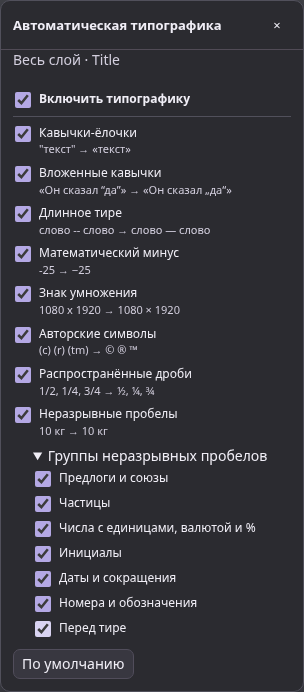
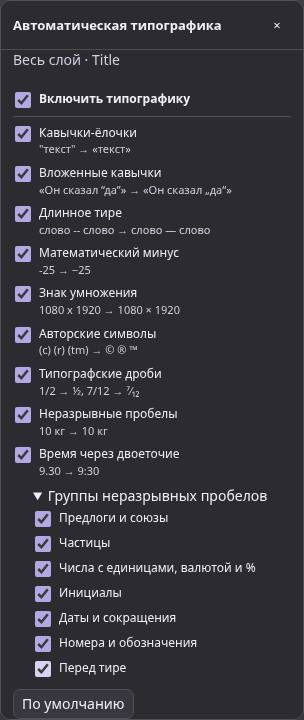
Extend typographic fractions and add opt-in colon times

diff --git a/tests/text-typography.spec.js b/tests/text-typography.spec.js
@@ -11,9 +11,9 @@ const layer=(page,id='title')=>page.locator(`#layers [data-layer="${id}"]`);
 const selectLayer=(page,id)=>layer(page,id).locator('.layer-name').click();
 const press=async(page,...keys)=>{for(const key of keys)await page.keyboard.press(key);};
 const pause=page=>page.evaluate(()=>new Promise(resolve=>requestAnimationFrame(()=>requestAnimationFrame(resolve))));
-const allRules=Object.fromEntries(['quotes','nestedQuotes','emDash','minus','multiply','marks','fractions','nbsp'].map(key=>[key,true]));
-const source='"Голос “да”" -- -25 °C; 3 * 4; (tm); 1/2; в доме.\nStraße';
-const projected='«ГОЛОС „ДА“»\u00a0— −25\u00a0°C; 3 × 4; ™; ½; В\u00a0ДОМЕ.\nSTRASSE';
+const allRules=Object.fromEntries(['quotes','nestedQuotes','emDash','minus','multiply','marks','fractions','nbsp','timeColon'].map(key=>[key,true]));
+const source='"Голос “да”" -- -25 °C; 3 * 4; (tm); 1/2, 7/12; в доме.\nStraße 09.05';
+const projected='«ГОЛОС „ДА“»\u00a0— −25\u00a0°C; 3 × 4; ™; ½, ⁷⁄₁₂; В\u00a0ДОМЕ.\nSTRASSE 09:05';
 
 async function finishEdit(page){
  await host(page).focus();
@@ -49,9 +49,13 @@ test('panel stays in place, targets one layer, preserves canonical runs and pers
  await expect(trigger(page)).toHaveAttribute('aria-expanded','true');
  expect(await model(page)).toEqual(before);
  await master(page).check();
+ await expect(rule(page,'fractions')).toHaveAccessibleName('Типографские дроби');
+ await expect(rule(page,'timeColon')).toHaveAccessibleName('Время через двоеточие');
+ await expect(rule(page,'timeColon')).not.toBeChecked();
  for(const key of ['multiply','marks','fractions'])await rule(page,key).check();
+ await rule(page,'timeColon').check();
  await expect(trigger(page)).toHaveClass(/active/);
- await expect(trigger(page)).toHaveAttribute('title',/8$/);
+ await expect(trigger(page)).toHaveAttribute('title',/9$/);
  await panel(page).locator('summary').click();
  await expect(panel(page).locator('[data-typography-nbsp]:visible')).toHaveCount(7);
  const buttonImage=info.outputPath('typography-button.png'),panelImage=info.outputPath('typography-panel.png');
@@ -68,11 +72,19 @@ test('panel stays in place, targets one layer, preserves canonical runs and pers
  const backward=await selection(page);
  await rule(page,'fractions').uncheck();
  await expect(host(page)).toContainText('1/2');
+ await expect(host(page)).toContainText('09:05');
  await host(page).focus();
  const after=await selection(page);
  expect(after.anchor-after.focus).toBe(backward.anchor-backward.focus);
  await press(page,'Control+z');expect(await host(page).textContent()).toBe(projected);
  await press(page,'Control+Shift+z');await expect(host(page)).toContainText('1/2');
+ await press(page,'Control+z');
+ await rule(page,'timeColon').uncheck();
+ await expect(host(page)).toContainText('09.05');
+ await expect(host(page)).toContainText('⁷⁄₁₂');
+ await host(page).focus();
+ await press(page,'Control+z');expect(await host(page).textContent()).toBe(projected);
+ await press(page,'Control+Shift+z');await expect(host(page)).toContainText('09.05');
  await press(page,'Control+z');
  await master(page).uncheck();
  expect(await host(page).textContent()).toBe(source.toUpperCase());
@@ -90,6 +102,8 @@ test('panel stays in place, targets one layer, preserves canonical runs and pers
  await page.locator('#inspector [data-action=duplicate]').click();
  const duplicate=(await exportedDocument(page)).elements.find(e=>e.id!=='title');
  expect(duplicate.typography).toEqual(saved.typography);
+ await rule(page,'timeColon').uncheck();
+ expect((await exportedDocument(page)).elements.find(e=>e.id===duplicate.id).typography.rules.timeColon).toBe(false);
  await expect(panel(page).locator('#typographyTarget')).not.toHaveText('Весь слой · '+before.name);
  await master(page).uncheck();
  expect((await model(page)).typography).toEqual(saved.typography);
@@ -103,6 +117,7 @@ test('panel stays in place, targets one layer, preserves canonical runs and pers
  expect((await model(page)).typography).toEqual(saved.typography);
  await panel(page).locator('[data-typography-reset]').click();
  await expect(rule(page,'fractions')).not.toBeChecked();
+ await expect(rule(page,'timeColon')).not.toBeChecked();
  await press(page,'Control+z');
  await expect(rule(page,'fractions')).toBeChecked();
  await selectLayer(page);
@@ -123,6 +138,8 @@ test('panel stays in place, targets one layer, preserves canonical runs and pers
  await page.reload();await openLibraryDocument(page,doc.id);await selectLayer(page);
  await expect(trigger(page)).toHaveClass(/active/);
  await expect(panel(page)).toBeHidden();
+ await trigger(page).click();
+ await expect(rule(page,'timeColon')).toBeChecked();
 });
 
 test('contractions and expansions are atomic for arrows, backward drag, delete and clipboard, with safe IME recovery',async({page})=>{
@@ -168,17 +185,72 @@ test('contractions and expansions are atomic for arrows, backward drag, delete a
  expect((await model(page)).text).toBe('ß "word"\n"test"');
 });
 
+test('equal-length compound fraction is atomic for native click, backward drag, navigation and clipboard',async({page})=>{
+ const text='До 125/256 после';
+ await seed(page,{text,fontSize:28,typography:{enabled:true,rules:{fractions:true}}});
+ await edit(page);
+ expect(await host(page).textContent()).toBe('До ¹²⁵⁄₂₅₆ после');
+ const first=await glyphBox(page,3),last=await glyphBox(page,9),space=await glyphBox(page,10);
+ const y=first.y+first.height/2;
+ await page.mouse.click(first.x+first.width*.8,y);
+ await expect.poll(()=>selection(page)).toEqual({anchor:3,focus:3});
+ await press(page,'ArrowRight');
+ expect(await selection(page)).toEqual({anchor:10,focus:10});
+ await page.mouse.click(last.x+last.width*.2,y);
+ await expect.poll(()=>selection(page)).toEqual({anchor:10,focus:10});
+ await press(page,'ArrowLeft','Delete');
+ expect((await model(page)).text).toBe('До  после');
+ await press(page,'Control+z');
+ expect((await model(page)).text).toBe(text);
+ await press(page,'Home');
+ expect(await selection(page)).toEqual({anchor:0,focus:0});
+ await press(page,'End');
+ expect(await selection(page)).toEqual({anchor:text.length,focus:text.length});
+ await page.mouse.move(space.x+space.width*.1,y);
+ await page.mouse.down();
+ await page.mouse.move(first.x+first.width*.7,y,{steps:10});
+ await page.mouse.up();
+ await expect.poll(()=>selection(page)).toEqual({anchor:10,focus:3});
+ expect(await page.evaluate(()=>getSelection().toString())).toBe('¹²⁵⁄₂₅₆');
+ await press(page,'Control+c','End','Enter','Control+v');
+ expect((await model(page)).text).toBe(text+'\n125/256');
+ await press(page,'End','Backspace');
+ expect((await model(page)).text).toBe(text+'\n');
+ await press(page,'Control+z');
+ expect((await model(page)).text).toBe(text+'\n125/256');
+ await press(page,'End','Shift+ArrowLeft','Control+x');
+ expect((await model(page)).text).toBe(text+'\n');
+ await press(page,'Control+v');
+ expect((await model(page)).text).toBe(text+'\n125/256');
+});
+
 test('glued text, custom list decoration and PNG agree at fixed size and auto-fit',async({page})=>{
- const text='Первая строка 10 кг в доме и 1/2 возле окна\nВторая -- строка.';
+ const text='Первая строка 10 кг в доме и 1/2; 125/256 возле окна\nВторая -- строка. 09.00–18.00; 7/12';
+ const split=text.lastIndexOf('7/12')+2;
  await seed(page,{text,w:163,h:150,fontSize:23,textAlign:'justify',
   typography:{enabled:true,rules:allRules},
-  textRuns:[{start:0,end:6,style:{underline:true,strokeWidth:1,baselineShift:'super'}}],
+  textRuns:[{start:0,end:6,style:{underline:true,strokeWidth:1,baselineShift:'super'}},
+   {start:split,end:split+2,style:{textColor:'#a32832'}}],
   paragraphRuns:[{start:0,style:{listKind:'bullet',listMarker:'◆',listIndent:6}}]});
  await edit(page);
  const rows=()=>host(page).locator('[data-wysiwyg-row]').allTextContents();
- expect((await rows()).some(row=>row.includes('10\u00a0кг'))).toBe(true);
- expect((await rows()).some(row=>row.includes('в\u00a0доме'))).toBe(true);
- expect((await rows()).some(row=>row.includes('½'))).toBe(true);
+ const fixedRows=await rows(),fraction='¹²⁵⁄₂₅₆';
+ expect(fixedRows.some(row=>row.includes('10\u00a0кг'))).toBe(true);
+ expect(fixedRows.some(row=>row.includes('в\u00a0доме'))).toBe(true);
+ expect(fixedRows.some(row=>row.includes('½'))).toBe(true);
+ const fractionRow=fixedRows.findIndex(row=>row.includes(fraction));
+ expect(fractionRow).toBeGreaterThan(0);
+ expect(await host(page).textContent()).toContain('09:00–18:00; 7/12');
+ const rowStart=fixedRows.slice(0,fractionRow).join('').length;
+ const fractionStart=rowStart+fixedRows[fractionRow].indexOf(fraction);
+ const box=await glyphBox(page,fractionStart);
+ await page.mouse.click(box.x+box.width*.75,box.y+box.height/2);
+ await expect.poll(()=>selection(page)).toEqual({anchor:fractionStart,focus:fractionStart});
+ const rowEnd=rowStart+fixedRows[fractionRow].replace(/\n$/u,'').length;
+ await press(page,'End');
+ expect(await selection(page)).toEqual({anchor:rowEnd,focus:rowEnd});
+ await press(page,'Home');
+ expect(await selection(page)).toEqual({anchor:0,focus:0});
  await finishEdit(page);
  const fixed=await model(page);
  const originalPNG=(await exportPNG(page)).image.data;
@@ -193,6 +265,7 @@ test('glued text, custom list decoration and PNG agree at fixed size and auto-fi
  expect((await host(page).locator('[data-wysiwyg-separator]').allTextContents()).every(value=>/^ +$/u.test(value))).toBe(true);
  const autoRows=await rows();
  expect(autoRows.some(row=>row.includes('10\u00a0кг'))).toBe(true);
+ expect(autoRows.some(row=>row.includes('¹²⁵⁄₂₅₆'))).toBe(true);
  await press(page,'Control+Home','ArrowDown','End','ArrowLeft','Home');
  await expect(host(page)).toBeFocused();
  await finishEdit(page);
@@ -231,7 +304,7 @@ test('mobile Canvas and PNG keep identical projection while native textarea edit
  await pause(page);
  await expect(trigger(page)).toHaveCount(0);
  const draws=await page.evaluate(()=>window.drawnText.join(''));
- for(const value of ['−25','™','½','STRASSE','\u00a0'])expect(draws).toContain(value);
+ for(const value of ['−25','™','½','⁷⁄₁₂','STRASSE','09:05','\u00a0'])expect(draws).toContain(value);
  expect((await exportPNG(page)).image.data.equals(desktop)).toBe(true);
  const p=await canvasPoint(page,50,34);
  await page.mouse.dblclick(p.x,p.y);

diff --git a/src/editor.js b/src/editor.js
@@ -2589,15 +2589,16 @@ const typographyLabels={
  minus:['Математический минус','-25 → −25'],
  multiply:['Знак умножения','1080 х 1920 → 1080 × 1920'],
  marks:['Авторские символы','(c) (r) (tm) → © ® ™'],
- fractions:['Распространённые дроби','1/2, 1/4, 3/4 → ½, ¼, ¾'],
+ fractions:['Типографские дроби','1/2 → ½, 7/12 → ⁷⁄₁₂'],
  nbsp:['Неразрывные пробелы','10 кг → 10\u00a0кг'],
+ timeColon:['Время через двоеточие','9.30 → 9:30','Отдельное число вроде 3.14 тоже отображается как время'],
 };
 const typographyGroupLabels={
  shortWords:'Предлоги и союзы',particles:'Частицы',units:'Числа с единицами, валютой и %',
  initials:'Инициалы',dates:'Даты и сокращения',designations:'Номера и обозначения',dash:'Перед тире',
 };
-$('#typographyRules').innerHTML=Object.entries(typographyLabels).map(([key,[label,example]])=>
- `<label class="typography-rule"><input type="checkbox" data-typography-rule="${key}"><span>${label}<small aria-hidden="true">${html(example)}</small></span></label>`
+$('#typographyRules').innerHTML=Object.entries(typographyLabels).map(([key,[label,example,hint]])=>
+ `<label class="typography-rule"${hint?' title="'+html(hint)+'"':''}><input type="checkbox" data-typography-rule="${key}"><span>${label}<small aria-hidden="true">${html(example)}</small></span></label>`
 ).join('');
 $('#typographyNbspRules').innerHTML=Object.entries(typographyGroupLabels).map(([key,label])=>
  `<label class="typography-rule"><input type="checkbox" data-typography-nbsp="${key}"><span>${label}</span></label>`

diff --git a/docs/text-typography-t5.md b/docs/text-typography-t5.md
@@ -8,7 +8,7 @@
 
 Настройки относятся ко всему выбранному слою. Открытие и закрытие панели не меняют документ. Панель остаётся открытой при перемещении каретки, входе и выходе из редактирования и внешних кликах. Она показывает текущий слой. При множественном выборе, блокировке, неподходящем режиме или восстановлении ввода настройки недоступны. Панель закрывается через × или Escape.
 
-Старые и новые слои без поля `typography` начинают с выключенной типографикой. Рекомендуемый набор включает внешние и вложенные кавычки, тире, минус и семь групп неразрывных пробелов. Умножение, авторские символы и дроби включаются отдельно. Общий переключатель запоминает набор правил. «По умолчанию» восстанавливает рекомендуемые правила и группы при текущем положении общего переключателя.
+Старые и новые слои без поля `typography` начинают с выключенной типографикой. Рекомендуемый набор включает внешние и вложенные кавычки, тире, минус и семь групп неразрывных пробелов. Умножение, авторские символы, дроби и время включаются отдельно. Общий переключатель запоминает набор из девяти правил. «По умолчанию» восстанавливает рекомендуемые правила и группы при текущем положении общего переключателя.
 
 ## Правила и границы
 
@@ -20,8 +20,15 @@
 | Математический минус | `-25 °C` → `−25 °C` | Меняет унарный дефис перед цифрой в ясном контексте. Вычитание, диапазоны, даты, телефоны, идентификаторы и распознанные аргументы CLI сохраняются. |
 | Знак умножения | `1080 x 1920`, `1080 х 1920`, `3 * 4` → `1080 × 1920`, `1080 × 1920`, `3 × 4` | Между числами требуются обычные пробелы с обеих сторон. Буквенные переменные, `3*4`, версии, SKU и шестнадцатеричные токены сохраняются. |
 | Авторские символы | `(c) (R) (tm)` → `© ® ™` | Отдельные токены, с любым регистром букв. Например, `fn(c)`, адрес почты и запись внутри обратных кавычек сохраняются. |
-| Распространённые дроби | `1/2, 1/4, 3/4` → `½, ¼, ¾` | Только эти три отдельные записи. Даты с годом, пути, составные дроби и явные обозначения разделов сохраняются. Отдельное `1/2` может означать дату без года, поэтому правило выключено в рекомендуемом наборе. |
+| Типографские дроби | `1/2` → `½`, `7/12` → `⁷⁄₁₂`, `125/256` → `¹²⁵⁄₂₅₆` | Отдельные целые числа из цифр 0–9 по обе стороны черты. Знаменатель должен быть положительным. Запись цифр сохраняется, включая ведущие нули. Отдельная дата без года вроде `24/11` трактуется как дробь. |
 | Неразрывные пробелы | `10 кг` → `10 кг` | Заменяет одиночный существующий U+0020. Сохраняет табуляцию, переносы строк, двойные и более длинные пробелы, U+00A0 и U+202F. |
+| Время через двоеточие | `9.30` → `9:30`, `09.00–18.00` → `09:00–18:00` | Часы 0–23 из одной или двух цифр, минуты 00–59 из двух цифр. Сохраняет ведущие нули и оформление диапазона. Отдельное число вроде `3.14` трактуется как время. |
+
+Дроби используют готовые символы Unicode для точных записей, например `2/3 → ⅔` и `5/8 → ⅝`. Остальные отображаются надстрочными и подстрочными цифрами с дробной чертой U+2044. Если в выбранном шрифте отсутствуют эти символы, браузер подбирает запасные глифы. От выбранного шрифта и системы зависят форма и ширина дроби.
+
+Правило дробей сохраняет запись после математического знака, в том числе через обычный или неразрывный пробел. Оно также распознаёт очевидные выражения вроде `1/2 + 3/4` и числовой контекст `2 x 7/12`. Эвристика рассчитана на распространённые операции. Даты с годом, дроби с целой частью вроде `1 1/2`, цепочки с несколькими чертами и обозначения разделов сохраняются.
+
+Правило времени сохраняет полные даты, версии, IP-адреса, явные технические идентификаторы, числа со знаком и записи с распознанными единицами, валютой или процентом. В диапазонах оно меняет только две точки. Остальные правила продолжают использовать обычную защиту числовых диапазонов.
 
 Группы пробелов настраиваются независимо.
 
@@ -41,15 +48,15 @@
 
 Canvas, экспорт PNG и desktop WYSIWYG используют общие строки layout. Проекция кэшируется по исходнику, настройкам и границам стилей, а автоподбор использует одну проекцию для пробных размеров с шагом 0,1 px. Связка с неразрывным пробелом остаётся одним фрагментом для переноса даже в ручном размере. Если связка шире рамки, её края обрезаются границами отрисовки. При смене правил сохраняется записанный размер шрифта, чтобы прежний вид восстанавливался при отключении. В режиме автоподбора отображаемый размер при необходимости уменьшается до 1 px. Justify растягивает только обычные пробелы. На мягком переносе скрываются только обычные разделительные пробелы по правилам T4.3.
 
-Каретка и выделение принадлежат нативному DOM. У сокращений доступны две границы. Backspace и Delete удаляют весь соответствующий интервал исходника. Если включение правила поглощает конец выделения, выделение охватывает целый видимый символ и сохраняет направление. Copy и Cut возвращают исходные символы, включая обычные пробелы и последовательности вроде `1/2`. Вставка изменяет исходник, после чего отображение вычисляется заново. Неподтверждённый ввод IME остаётся в существующем режиме восстановления до явного действия.
+Каретка и выделение принадлежат нативному DOM. У сокращений и типографских дробей доступны две границы. Составная дробь остаётся целой при переносе, в том числе если её длина UTF-16 совпадает с исходной. Backspace и Delete удаляют весь соответствующий интервал исходника. Если включение правила поглощает конец выделения, выделение охватывает весь видимый интервал и сохраняет направление. Copy и Cut возвращают исходные символы, включая обычные пробелы и последовательности вроде `7/12` и `9.30`. Вставка изменяет исходник, после чего отображение вычисляется заново. Неподтверждённый ввод IME остаётся в существующем режиме восстановления до явного действия.
 
-Настройки сохраняются в JSON, проектах, дубликатах и ZIP с прежней схемой IndexedDB v3. При импорте документа или копии проекта проверяются типы полей, а неизвестные ключи отбрасываются. Прямое восстановление рабочего пространства сохраняет записи архива без нормализации по существующему контракту. Некорректная конфигурация в такой записи не участвует в отображении. Вертикальный текст, текст по контуру и дуге сохраняют настройки до возврата в горизонтальный режим. На мобильном Canvas и в PNG работает общая проекция. Нативное поле на Android и desktop textarea при fallback показывают исходный текст.
+Настройки сохраняются в JSON, проектах, дубликатах и ZIP с прежней схемой IndexedDB v3. Дроби используют прежний ключ `fractions`. В старых настройках без `timeColon` правило времени выключено. При импорте документа или копии проекта проверяются типы полей, а неизвестные ключи отбрасываются. Прямое восстановление рабочего пространства сохраняет записи архива без нормализации по существующему контракту. Некорректная конфигурация в такой записи не участвует в отображении. Вертикальный текст, текст по контуру и дуге сохраняют настройки до возврата в горизонтальный режим. На мобильном Canvas и в PNG работает общая проекция. Нативное поле на Android и desktop textarea при fallback показывают исходный текст.
 
 ## Ручная приёмка
 
-- Windows, Chromium и Firefox. Открыть старый документ и сравнить исходный вид. Выбрать один слой, открыть панель и проверить историю. Включить общий переключатель, затем три дополнительных правила. Проверить примеры из таблицы и технические исключения.
+- Windows, Chromium и Firefox. Открыть старый документ с `9.30` и проверить прежнее отображение времени. Выбрать один слой, открыть панель и проверить историю. Включить общий переключатель, затем четыре дополнительных правила. Проверить, что подсказка показывает девять активных правил, и сравнить примеры из таблицы и технические исключения.
 - Ввести `"Он сказал “да”" -- -25 °C; 1080 х 1920; (tm); 1/2; в доме.` и добавить отдельную строку `Straße` с верхним регистром. Применить цвет, подчёркивание, обводку и надстрочный сдвиг к разным участкам. Провести границу стилей внутри `1/2` и убедиться, что дробь сохраняет исходные символы.
-- Щёлкнуть и протянуть выделение справа налево через `½`, `™` и `SS`. Проверить Home/End и стрелки на мягких переносах, выделение при смене правил, Backspace/Delete и один Undo/Redo. Проверить содержимое системного буфера через вставку в обычный текстовый редактор.
+- Щёлкнуть и протянуть выделение справа налево через `½`, `¹²⁵⁄₂₅₆`, `™` и `SS`. Проверить Home/End и стрелки на мягких переносах, выделение при смене правил, Backspace/Delete и один Undo/Redo. Проверить видимость надстрочных и подстрочных цифр в стандартных шрифтах и содержимое системного буфера через вставку в обычный текстовый редактор.
 - Сузить рамку, чтобы перенос потребовался рядом с `10 кг`. Сравнить ручной размер и автоподбор, Justify и список с пользовательским маркером. Сравнить Canvas, WYSIWYG и выгруженный PNG.
 - С открытой панелью войти в редактирование, перенести каретку, выйти, выбрать другой слой и заблокировать его. Проверить × и Escape. Открыть настройки списка и подчёркивания и проверить их обычные действия.
 - Включить системный Windows IME, например японский или китайский, и начать композицию. Проверить блокировку панели, возможность скопировать неподтверждённый ввод и восстановить подтверждённый текст. При поддерживаемом вводе повторить набор с реальной клавиатуры.
